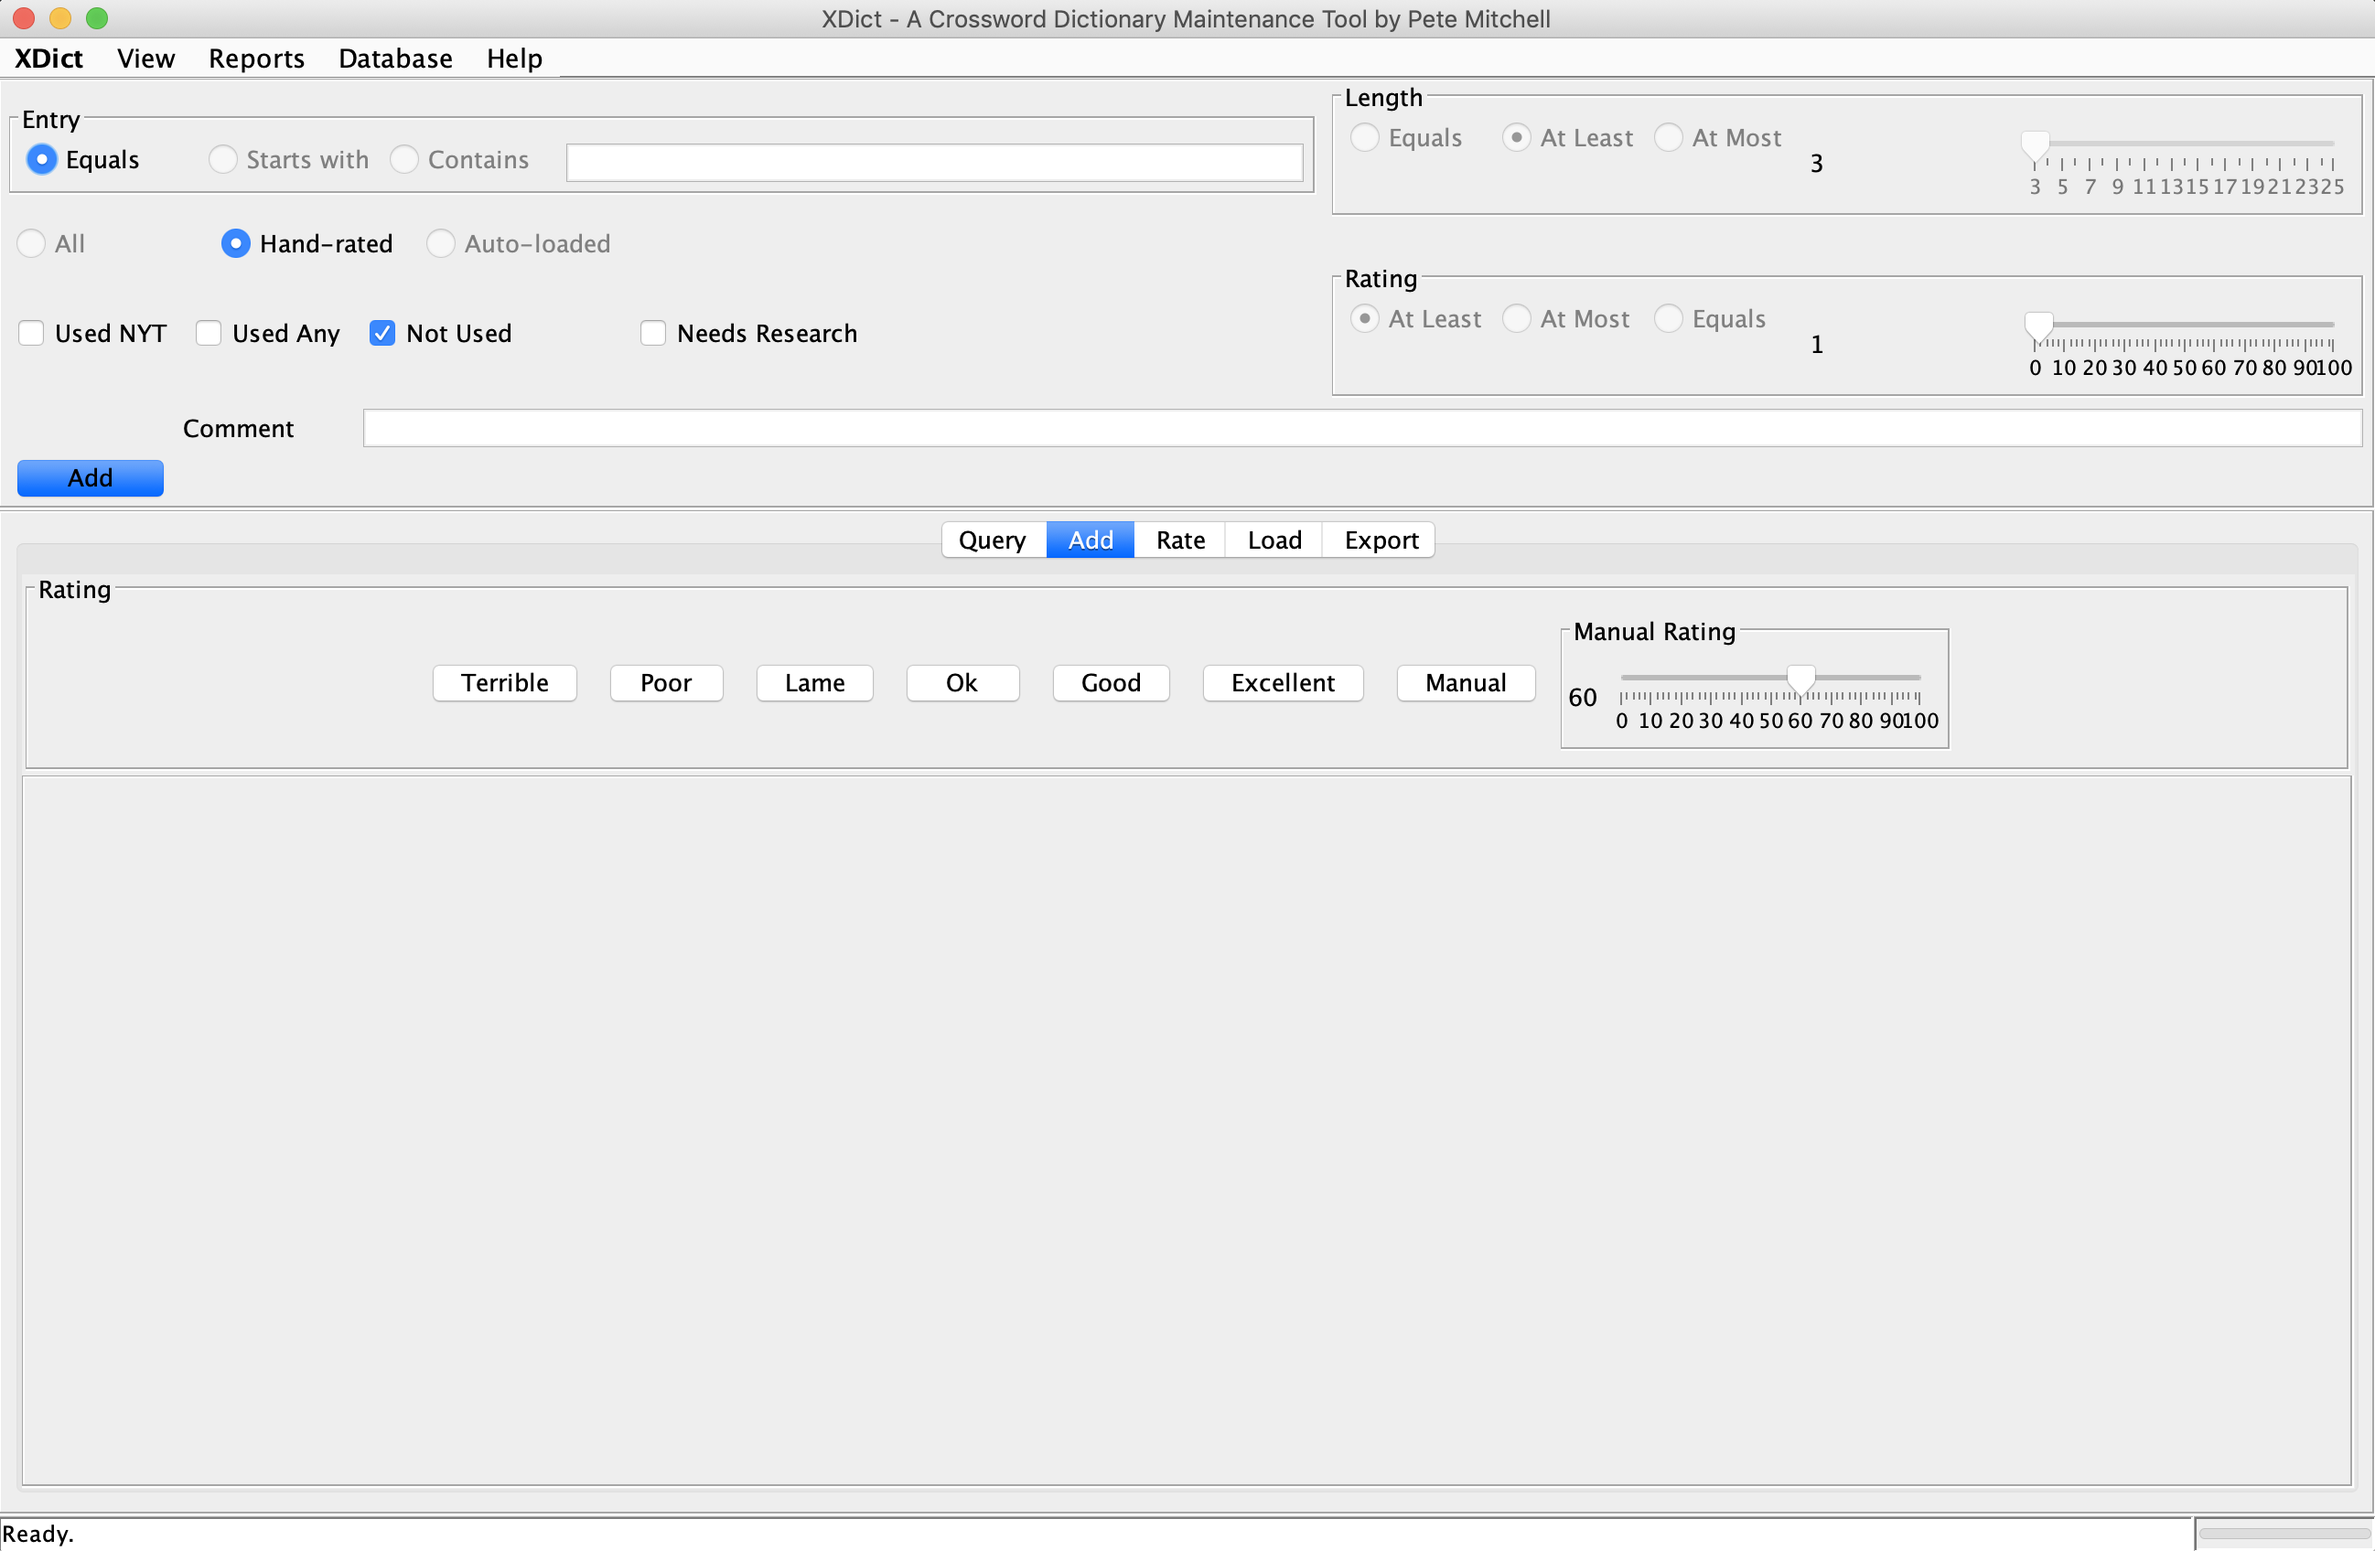
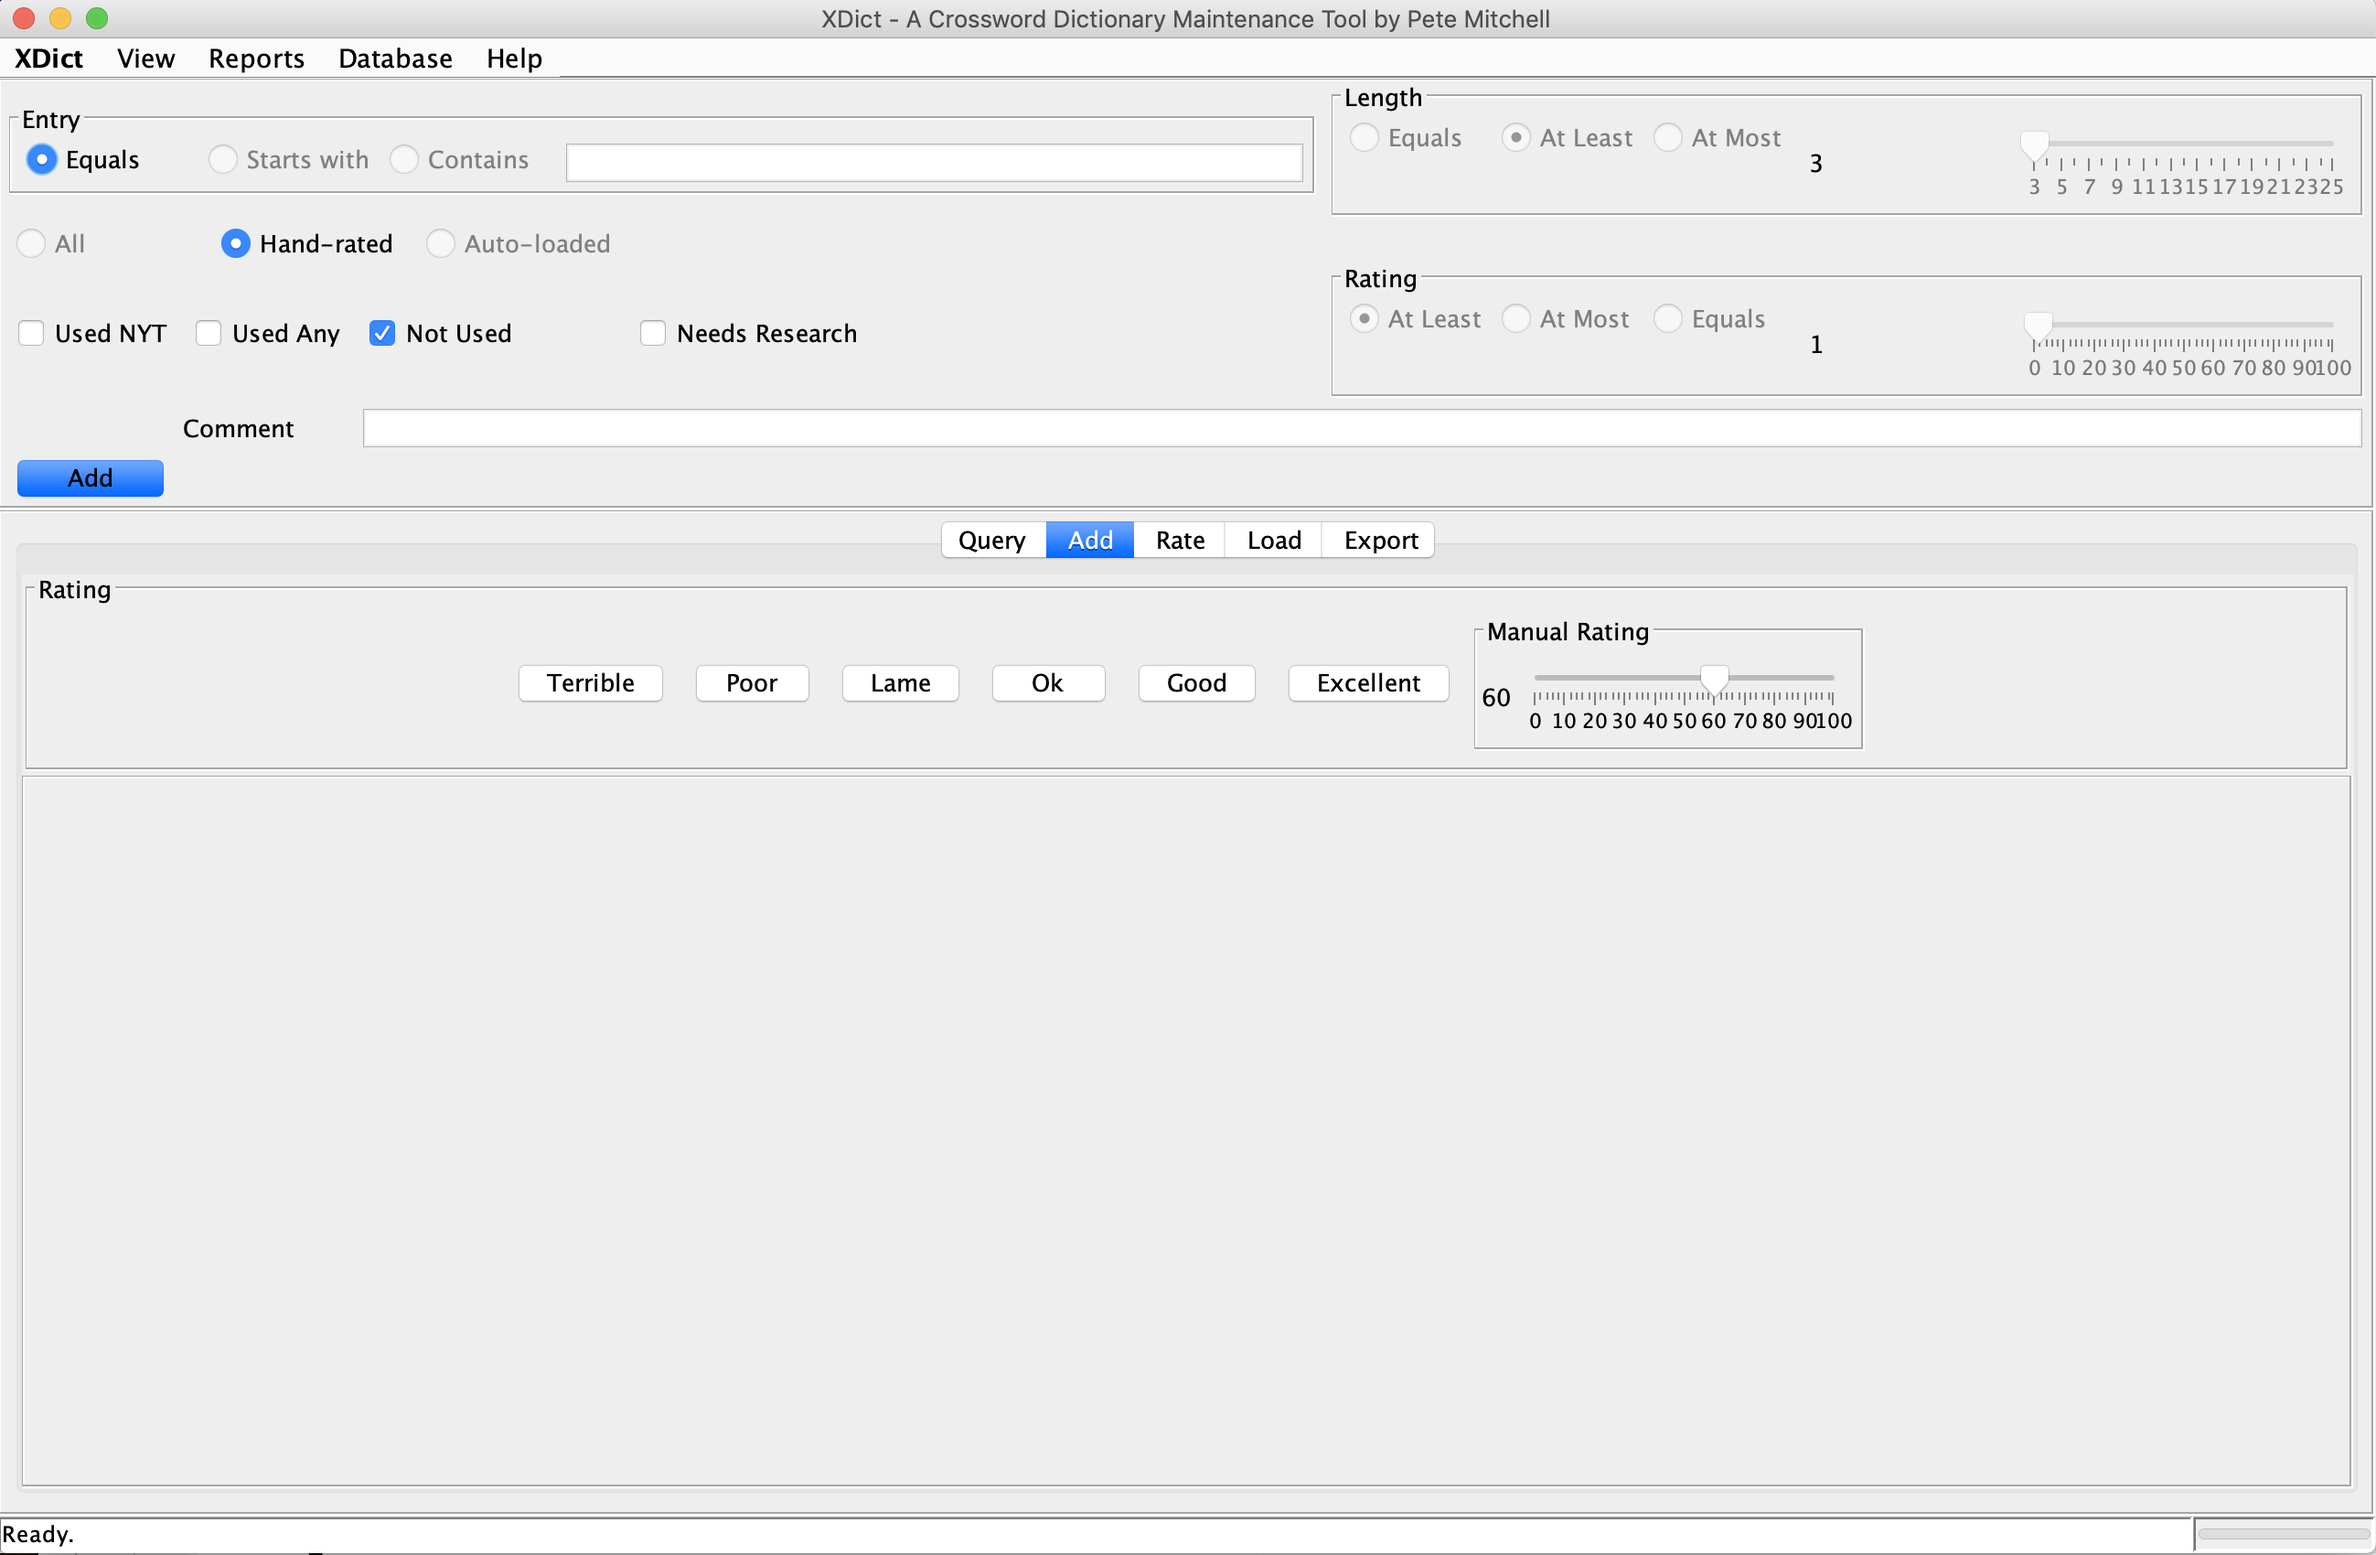
Fix comments to allow apostrophes. Fix add/modify logic. Remove "Manual" button in Add screen (not needed; just adjust slider). More help stuff.

diff --git a/help/XDictHelp.html b/help/XDictHelp.html
@@ -355,7 +355,7 @@
       specify the length, as that will be calculated after the word is cleared of all non-alphanumeric
       characters and converted to uppercase.  The default value for the Crossword Use control is "Not Used",
       as typically that is the case when adding new words manually, but you can change this value, add
-      a comment, or select or designate a rating value (default preset is "OK"), by setting them on the
+      a comment, or select or designate a rating value (default preset is "OK" value), by setting them on the
       screen before pressing the "Add" button.
       <p>
       Note that, unlike in the Rating process, pressing a rating button will <i>not</i> immediately cause
@@ -365,15 +365,20 @@
       <p>
       <img src="./images/AddScreen2.png" alt="Add Screen" width="700px"><p>
       Adding an entry that already exists will not fail; it will modify the existing word with the parameters
-      specified.  See "Important Tip" below.
-      <div class="alert">Important Tip: <p>
-      It is a <b>very good</b> idea to first query directly for the entry to see if already exists.  Doing so and
-      then switching <i>directly</i> to the Add screen will
-      preserve the Entry and Comment fields, as well as preload the appropriate Crossword
-      Use fields. It will also preset the current rating into the Manual Rating slider of the Add screen.<p>
-      If you go to the add field directly and the entry already exists, you risk overwriting existing
-      information when the record is modified.
-    </div><p>
+      specified.  In fact, as you are typing a word on the Add screen the software will query and update
+      the existing parameters if that word (or those letters as they are currently typed) alreadty exists.
+      It also changes the "Add" button text to "Modify".  This is done to prevent accidentally overwriting
+      and erasing metadata from words that already exist without having to do a manual query first -- if
+      the word exists, then the data on the screen matches what is there.  Of course, you can then change
+      any of this data and press the "modify" button to override it<sup>*</sup>.
+      <p>
+      <img src="./images/AddScreen3.png" alt="Add Screen" width="700px"><p>
+      <sup>*</sup>Obviously you cannot change length, as that is inherent to the word. Also, the Rating
+      field in the upper section displays the existing rating -- changes to the rating are made with
+      the rating buttons or Manual Rating slider.  This way, the existing rating will continue to
+      be displayed, even while hitting rating buttons, until you have pressed the Modify button (or
+      have left or changed the screen).
+      <p>
     </div>
     <div id="rate"><h2><li>Rating Words</h2>
       <ol type='A'>

diff --git a/src/main/java/mitchell/pete/xwd/dictionary/gui/XDictGui.java b/src/main/java/mitchell/pete/xwd/dictionary/gui/XDictGui.java
@@ -142,7 +142,6 @@ public class XDictGui extends JFrame implements WindowListener
     private JButton researchButton		    = new JButton(new RateAction(this, XDictConfig.RATINGS.RESEARCH));
     private JButton skipButton		    	= new JButton(new RateAction(this, XDictConfig.RATINGS.SKIP));
     private JButton manualButton		    = new JButton(new RateAction(this, XDictConfig.RATINGS.MANUAL));
-    private JButton manualButton2		    = new JButton(new RateAction(this, XDictConfig.RATINGS.MANUAL));
     private JTabbedPane resultPaneTabs 		= new JTabbedPane();
     
     private JTextField loadFile            = new JTextField(50);
@@ -594,7 +593,7 @@ public class XDictGui extends JFrame implements WindowListener
         result.add(okButton2);
         result.add(goodButton2);
         result.add(excellentButton2);
-        result.add(manualButton2);
+//        result.add(manualButton2);
         JComponent entryRating = buildGenericCombo2("Manual Rating", manualRatingLabel2, manualRatingSlider2);
         result.add(entryRating);
 
@@ -622,7 +621,7 @@ public class XDictGui extends JFrame implements WindowListener
         okButton2.setEnabled(state);
         goodButton2.setEnabled(state);
         excellentButton2.setEnabled(state);
-        manualButton.setEnabled(state);
+//        manualButton2.setEnabled(state);
     }
 
     private JComponent buildRateDisplayPanel()
@@ -1158,6 +1157,7 @@ public class XDictGui extends JFrame implements WindowListener
         queryRatingAtMost.setEnabled(true);
         queryRatingEquals.setEnabled(true);
         queryRatingAtLeast.setEnabled(true);
+        wordRatingSlider.setEnabled(true);
         if (rating) {
             wordComment.setEnabled(true);
         } else {
@@ -1223,6 +1223,7 @@ public class XDictGui extends JFrame implements WindowListener
         queryRatingAtMost.setEnabled(true);
         queryRatingEquals.setEnabled(true);
         queryRatingAtLeast.setEnabled(true);
+        wordRatingSlider.setEnabled(true);
 
         // Set default values for parameters
         queryEntryEquals.setSelected(true);
@@ -1279,6 +1280,7 @@ public class XDictGui extends JFrame implements WindowListener
         queryRatingAtMost.setEnabled(false);
         queryRatingEquals.setEnabled(true);
         queryRatingAtLeast.setEnabled(false);
+        wordRatingSlider.setEnabled(true);
 
         // Set default values for parameters
         queryEntryEquals.setSelected(true);
@@ -1336,6 +1338,7 @@ public class XDictGui extends JFrame implements WindowListener
         queryRatingAtMost.setEnabled(false);
         queryRatingEquals.setEnabled(false);
         queryRatingAtLeast.setEnabled(false);
+        wordRatingSlider.setEnabled(false);
 
         // Set default values for parameters
         queryEntryEquals.setSelected(true);
@@ -1348,6 +1351,12 @@ public class XDictGui extends JFrame implements WindowListener
                 notUsed.setSelected(!(w1.isUsedAny() || w1.isUsedNYT()));
                 wordComment.setText(w1.getComment());
                 addButton.setText("Modify");
+                // These are disabled, so just set them to display current values
+                queryLengthEquals.setSelected(true);
+                wordLengthSlider.setValue(w1.length());
+                queryRatingEquals.setSelected(true);
+                wordRatingSlider.setValue(w1.getRating());
+                research.setSelected(w1.needsResearch());
             }
             else {
                 manualRatingSlider2.setValue(ADD_RATING_DEFAULT);
@@ -1356,6 +1365,12 @@ public class XDictGui extends JFrame implements WindowListener
                 notUsed.setSelected(true);
                 wordComment.setText("");
                 addButton.setText("Add");
+                // These are disabled, so just set them to default vals
+                queryLengthAtLeast.setSelected(true);
+                wordLengthSlider.setValue(LENGTH_DEFAULT);
+                queryRatingAtLeast.setSelected(true);
+                wordRatingSlider.setValue(QUERY_RATING_DEFAULT);
+                research.setSelected(false);
             }
 
         } else {
@@ -1365,15 +1380,14 @@ public class XDictGui extends JFrame implements WindowListener
             notUsed.setSelected(true);
             wordComment.setText("");
             addButton.setText("Add");
+            // These are disabled, so just set them to default vals
+            queryLengthAtLeast.setSelected(true);
+            wordLengthSlider.setValue(LENGTH_DEFAULT);
+            queryRatingAtLeast.setSelected(true);
+            wordRatingSlider.setValue(QUERY_RATING_DEFAULT);
+            research.setSelected(false);
         }
-        research.setSelected(false);
         queryMethodManual.setSelected(true);
-
-        // These are disabled, so just set them to default vals
-        queryLengthAtLeast.setSelected(true);
-        wordLengthSlider.setValue(LENGTH_DEFAULT);
-        queryRatingAtLeast.setSelected(true);
-        wordRatingSlider.setValue(QUERY_RATING_DEFAULT);
 
         // Initialize result area and status line
         addResultArea.setText("");
@@ -1450,9 +1464,8 @@ public class XDictGui extends JFrame implements WindowListener
     		resCtrl = ResearchControl.NEEDS_RESEARCH;
     	
     	Word w = new Word.Builder(key).rating((byte)rat).usedAny(useCtrl == UsedControl.ANY).usedNYT(useCtrl == UsedControl.NYT).needsResearch(resCtrl == ResearchControl.NEEDS_RESEARCH).manuallyRated(true).build();
-//    	if (!wordComment.getText().isEmpty()) {
-    		w.setComment(wordComment.getText());    // Need to do this regardless, else cannot delete a comment!
-//    	}
+    	w.setComment(wordComment.getText());    // Need to do this regardless, else cannot delete a comment!
+
     	if (w.length() < 3) {
     		status = WORD_STATUS.ERROR;
     		addResultArea.setText("Error: " + w.getEntry() + " is less than 3 characters.");
@@ -1762,6 +1775,7 @@ public class XDictGui extends JFrame implements WindowListener
         int rat = XDictConfig.getRating(r, w.length());
 
         manualRatingSlider2.setValue(rat);
+        research.setSelected(false);        // clear any "research" flag when selecting a rating
 
     	return status;
     }

diff --git a/src/main/java/mitchell/pete/xwd/dictionary/Word.java b/src/main/java/mitchell/pete/xwd/dictionary/Word.java
@@ -224,7 +224,30 @@ public class Word
 		return c;
 	}
 
-	public boolean setComment(String comment) 
+/*
+ * Get comment, formatted for SQL query (i.e. handling bad characters).
+ */
+    public String getSQLComment()
+    {
+        String c = (comment == null ? "" : comment);
+        StringBuilder clean = new StringBuilder();
+
+        for ( int i = 0; i < c.length(); ++i )
+        {
+            switch (c.charAt(i)) {
+                case '\'':
+                    clean.append("\\'");
+                    break;
+                default:
+                    clean.append(c.charAt(i));
+            }
+        }
+        return clean.toString();
+    }
+
+
+
+    public boolean setComment(String comment)
 	{
 		if (this.comment != null && this.comment.equals(comment))		// No change
 			return false;
@@ -307,7 +330,7 @@ public class Word
 		return sb.toString();
 	}
 
-	/*
+    /*
 	 * Check character for valid crossword entry (alphanumeric only)
 	 */
 	private static boolean isValid( char c, boolean wildOk )

diff --git a/src/main/java/mitchell/pete/xwd/dictionary/db/XDictDB_MySQL.java b/src/main/java/mitchell/pete/xwd/dictionary/db/XDictDB_MySQL.java
@@ -138,7 +138,7 @@ public class XDictDB_MySQL implements XDictDB_Interface {
 		String query = "insert into " + TABLE_COMMENTS 
 			+ " (ENTRY, COMMENT) values('"
 			+ w.getEntry() + "','"
-			+ w.getComment() + "')";
+			+ w.getSQLComment() + "')";
 		
 		try {
 			stmt.executeUpdate(query);
@@ -152,7 +152,7 @@ public class XDictDB_MySQL implements XDictDB_Interface {
         if (w.getComment().isEmpty())
             return;
 		String query = "update " + TABLE_COMMENTS + " set "
-				+ "COMMENT='" + w.getComment() + "' "
+				+ "COMMENT='" + w.getSQLComment() + "' "
 				+ "where ENTRY='" + w.getEntry() + "'";
 			
 			try {
